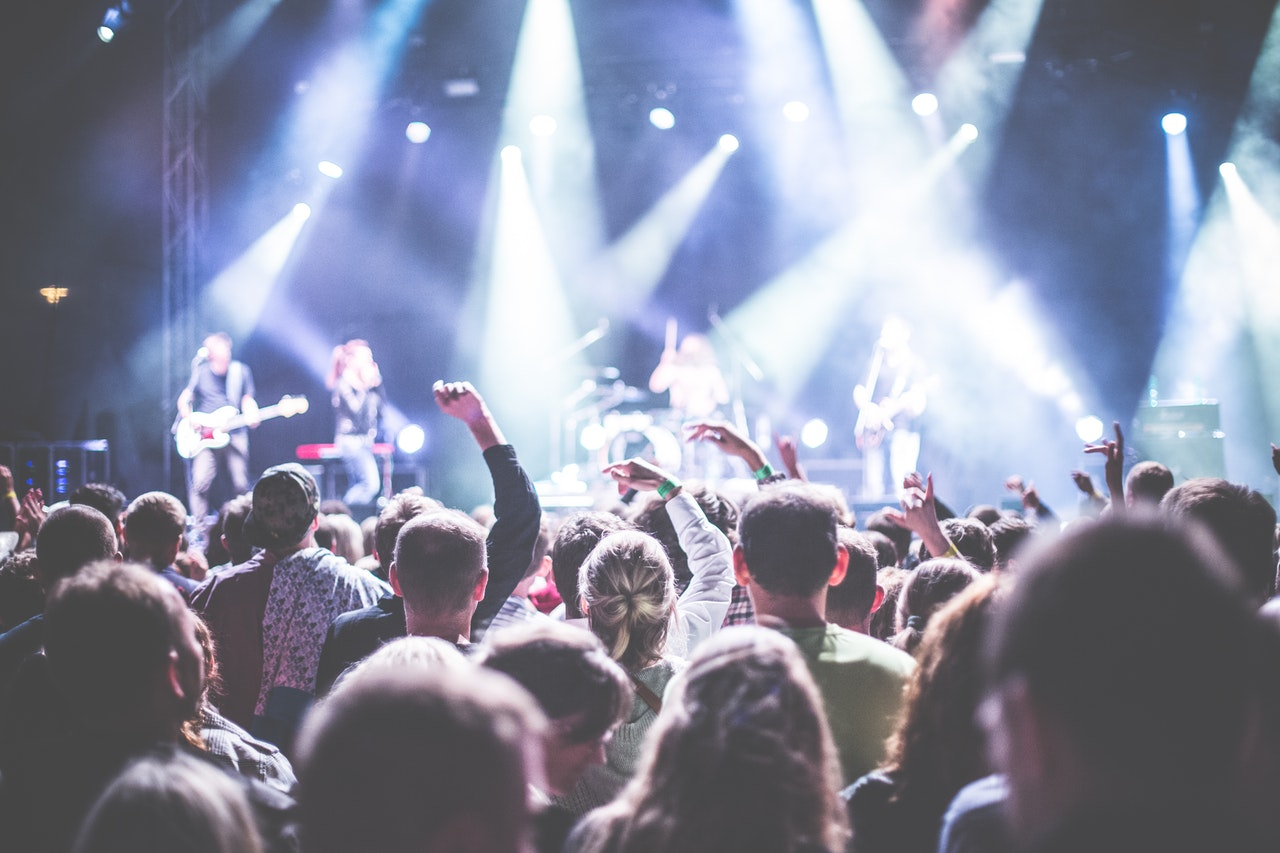
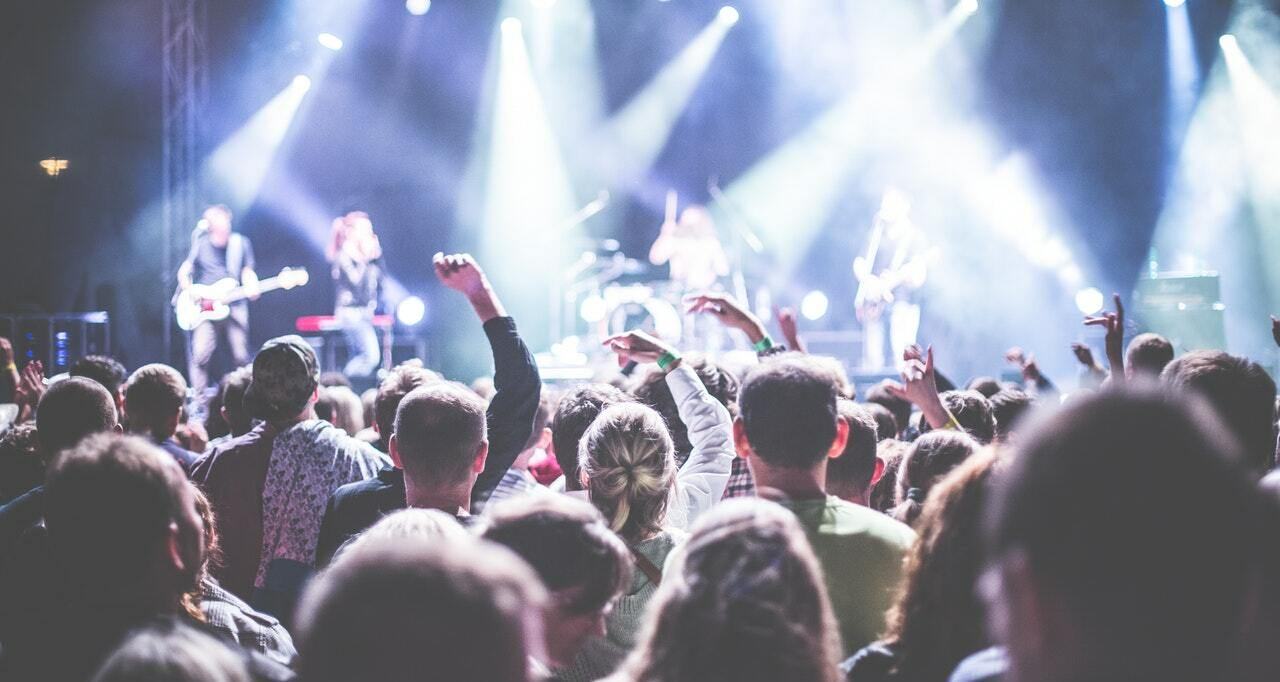
Image slider height optimized

diff --git a/assets/css/index.css b/assets/css/index.css
@@ -186,7 +186,7 @@ img {
 }
 
 .slider img {
-	height: 100vh;
+	height: auto;
 	width: 100%;
 	/* margin: 0 auto; */
 	box-sizing: border-box;
